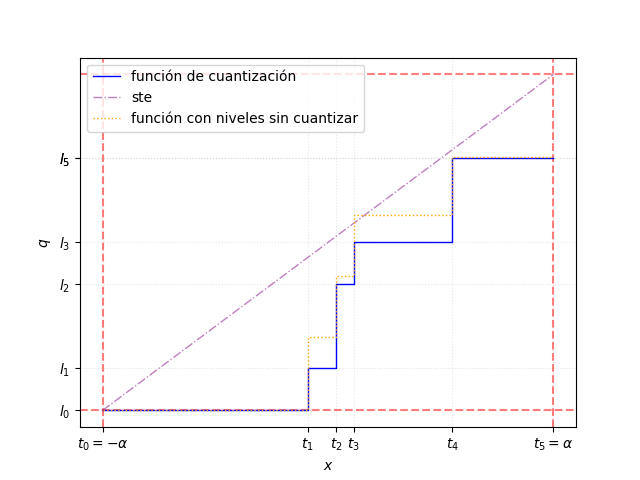
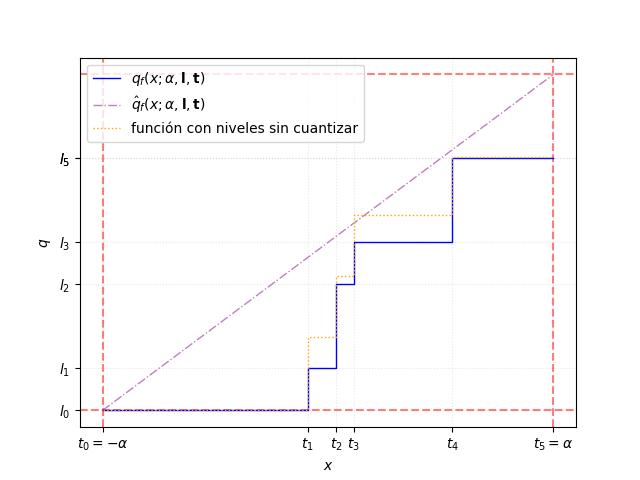
Fix plot ste

Changed region(s): [[0.1562, 0.125, 0.5625, 0.2812]]

diff --git a/src/plot_scripts/quantizer_plot.py b/src/plot_scripts/quantizer_plot.py
@@ -18,7 +18,7 @@ def plot_levels(ax, thresholds, levels, **kwargs):
     )
 
 
-def plot_ste(ax, min_limit, max_limit):
+def plot_ste(ax, min_limit, max_limit, **kwargs):
     dq_dx = np.linspace(min_limit, max_limit, 100)
     ax.plot(
         dq_dx,
@@ -27,7 +27,9 @@ def plot_ste(ax, min_limit, max_limit):
         linestyle="-.",
         lw=1,
         alpha=0.5,
-        label="ste",
+        label=kwargs.get(
+            "label", "aproximación de la función de cuantización"
+        ),
     )
 
 
@@ -90,9 +92,9 @@ def plot_uniform(
 
     # Plots
     plot_limits(ax, min_limit, max_limit)
-    plot_levels(ax, thresholds, levels)
+    plot_levels(ax, thresholds, levels, label=r"$q_{u}(x; \alpha)$")
     if do_plot_ste:
-        plot_ste(ax, min_limit, max_limit)
+        plot_ste(ax, min_limit, max_limit, label=r"$\hat{q}_{u}(x; \alpha)$")
 
     thresholds_ticks = thresholds
     levels_ticks = levels  # Exclude the last level for ticks
@@ -233,12 +235,16 @@ def plot_flex_quantizer(fig_path, do_plot_prequantized, do_plot_ste=False):
         levels,
         color="blue",
         linestyle="-",
-        label="función de cuantización",
+        label=r"$q_{f}(x; \alpha, \mathbf{l}, \mathbf{t})$",
     )
 
     if do_plot_ste:
-        plot_ste(ax, thresholds[0], thresholds[-1])
-
+        plot_ste(
+            ax,
+            thresholds[0],
+            thresholds[-1],
+            label=r"$\hat{q}_{f}(x; \alpha, \mathbf{l}, \mathbf{t})$",
+        )
     if do_plot_prequantized:
         plot_levels(
             ax,
